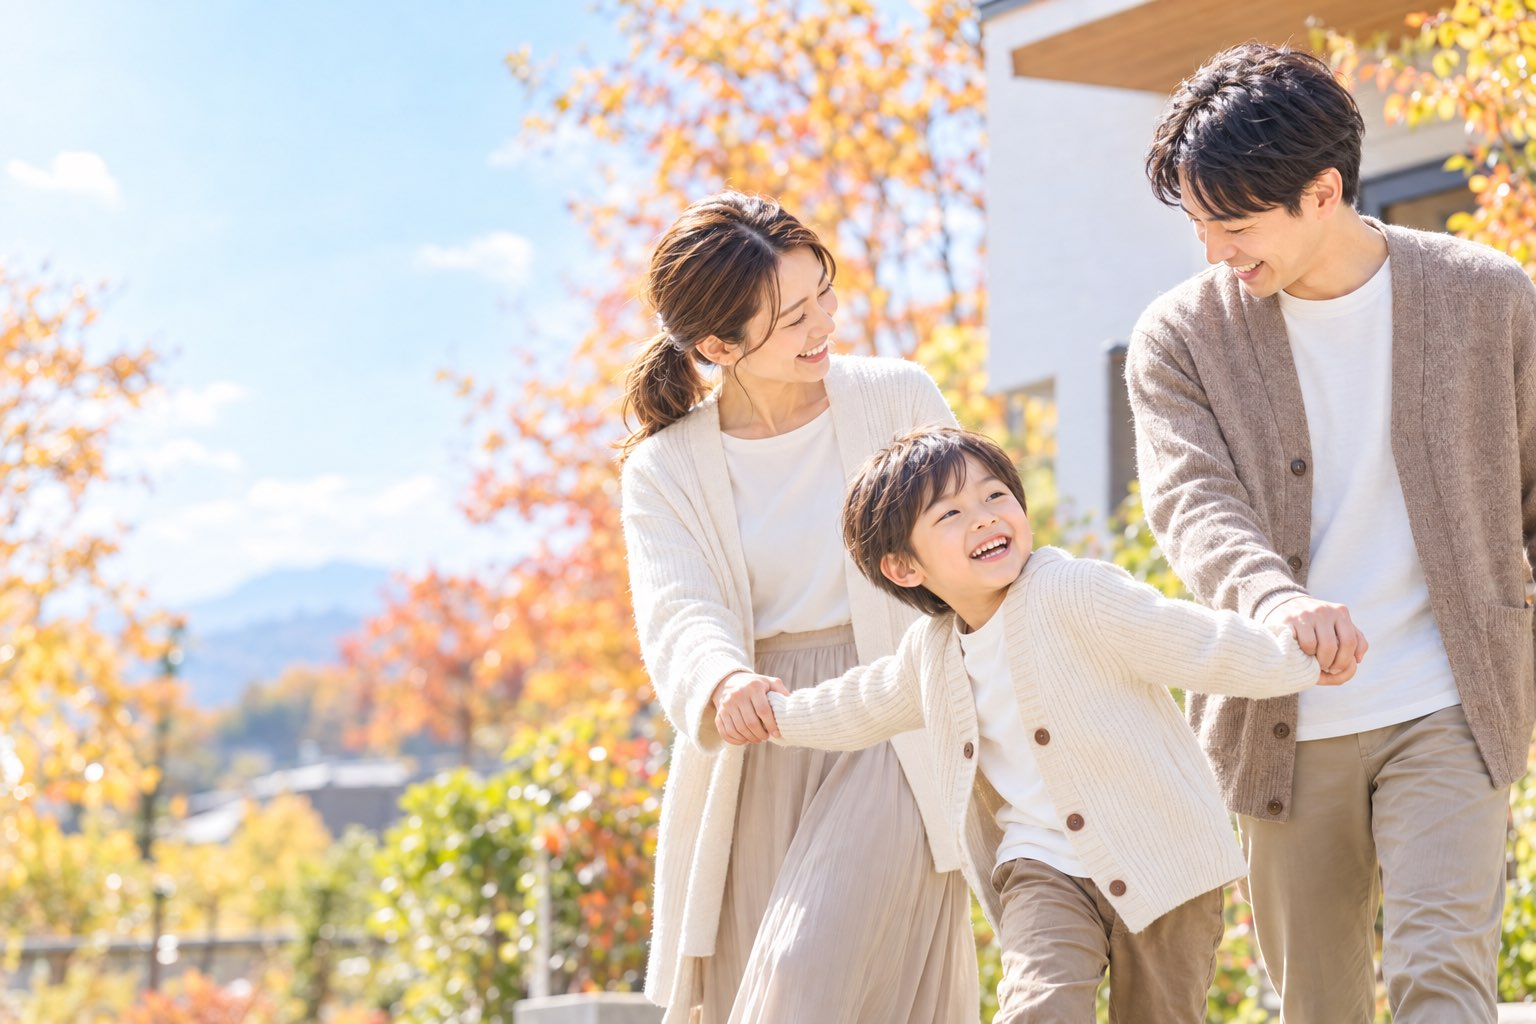
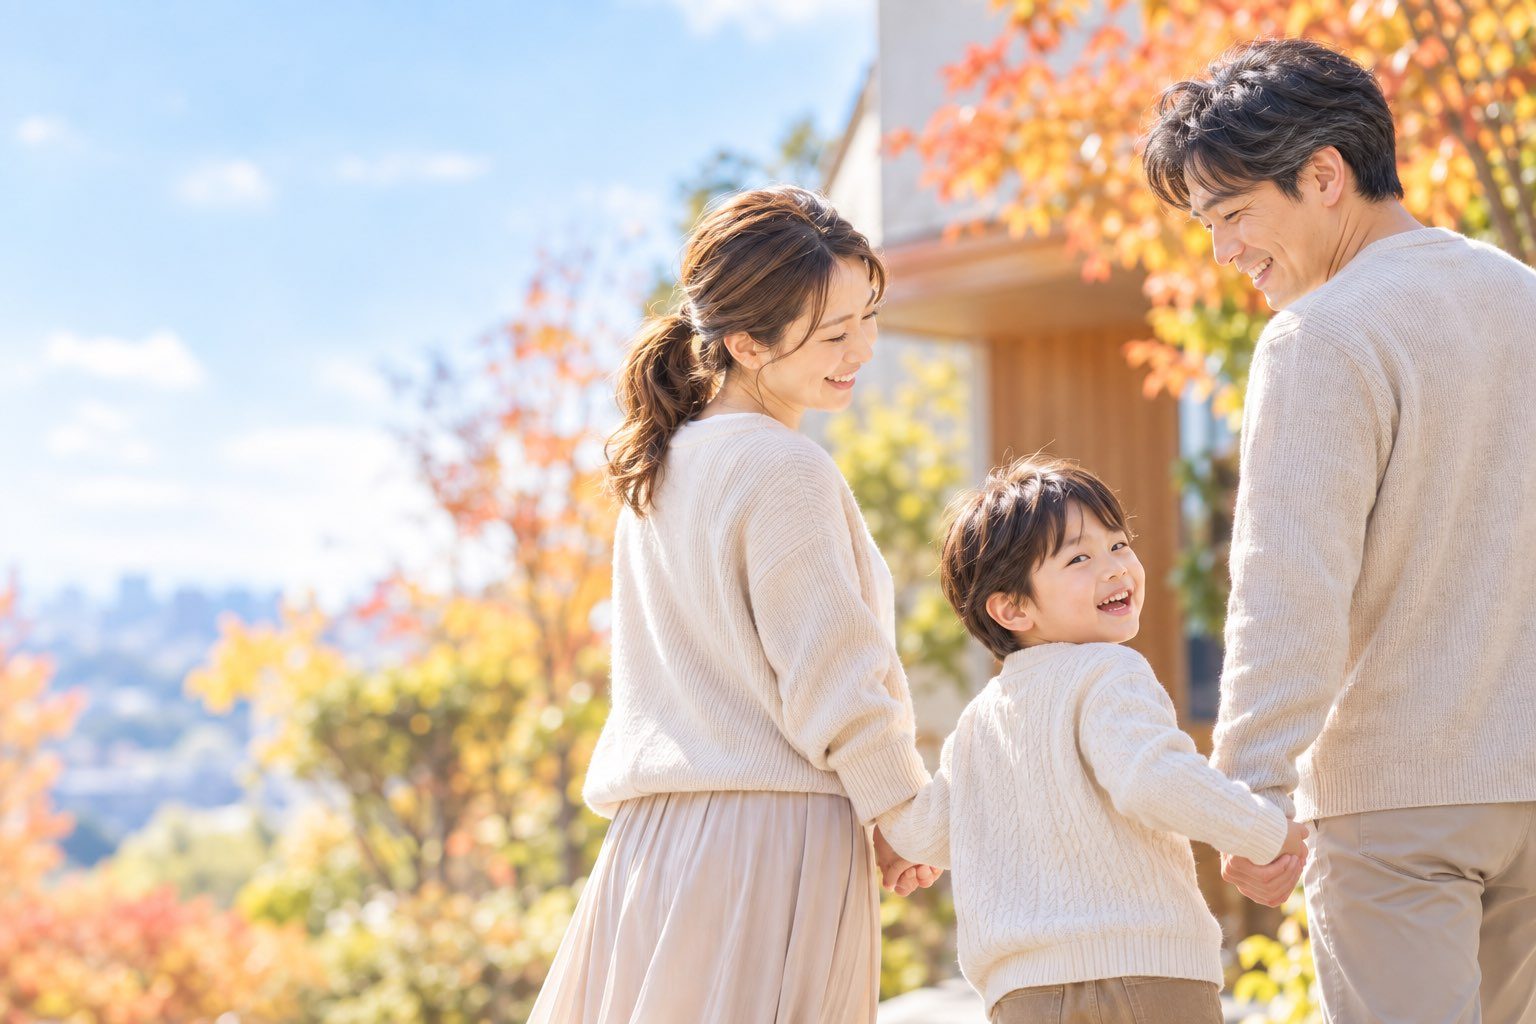
人生の四季の試作：秋の写真を差し替え、夏を肩車の写真にする
夏に今の hero.jpg を使っていたが、トップでは春として見せている写真なので「前の春」に見えてしまっていた。
夏はトップの夏と同じ hero-summer.jpg（公園で肩車）にする。秋は後ろ姿から振り返る構図の新しい版に差し替え、
スマホで母親と父親の顔が両方入るよう見せる位置を合わせた。

Claude-Session: https://claude.ai/code/session_01DkWFmwe3Z7eAywpshKupJG

diff --git a/life/index.html b/life/index.html
@@ -15,7 +15,7 @@
 <link href="https://fonts.googleapis.com/css2?family=Montserrat:wght@500;600&family=Noto+Sans+JP:wght@400;500;700&family=Noto+Serif+JP:wght@500;600&display=swap" rel="stylesheet">
 <link rel="icon" href="../images/favicon.png" type="image/png">
 <link rel="apple-touch-icon" href="../images/apple-touch-icon.png">
-<link rel="stylesheet" href="../assets/style.css?v=6487cc12">
+<link rel="stylesheet" href="../assets/style.css?v=bb231c3f">
 <script>
   // 表示前に「フェード待ち」の状態にする（本文の最後で付けると、文字が一度見えてから消えてフェードする）。
   // main.js が読み込めなかったときに文字が隠れたままにならないよう、3秒で解除する。
@@ -94,8 +94,8 @@
   <section class="fv" id="top">
     <div class="fv-photo">
       <img decoding="async" width="1536" height="1024" class="is-show" src="../images/life-spring.jpg?v=11091abb" alt="" fetchpriority="high" onerror="this.remove()">
-      <img loading="lazy" decoding="async" width="1536" height="1024" data-src="../images/hero.jpg?v=49df1ac6" alt="">
-      <img loading="lazy" decoding="async" width="1536" height="1024" data-src="../images/life-autumn.jpg?v=8c688986" alt="">
+      <img loading="lazy" decoding="async" width="1536" height="1024" data-src="../images/hero-summer.jpg?v=618163a0" alt="">
+      <img loading="lazy" decoding="async" width="1536" height="1024" data-src="../images/life-autumn.jpg?v=6a05a14d" alt="">
       <img loading="lazy" decoding="async" width="1536" height="1024" data-src="../images/life-winter.jpg?v=8f15345c" alt="">
     </div>
     <div class="wrap fv-inner">
@@ -340,6 +340,6 @@
   <a class="t" href="tel:0528462135"><svg><use href="#i-tel"/></svg>電話する</a>
 </div>
 
-<script src="../assets/main.js?v=6487cc12"></script>
+<script src="../assets/main.js?v=bb231c3f"></script>
 </body>
 </html>

diff --git a/motion/index.html b/motion/index.html
@@ -15,7 +15,7 @@
 <link href="https://fonts.googleapis.com/css2?family=Montserrat:wght@500;600&family=Noto+Sans+JP:wght@400;500;700&family=Noto+Serif+JP:wght@500;600&display=swap" rel="stylesheet">
 <link rel="icon" href="../images/favicon.png" type="image/png">
 <link rel="apple-touch-icon" href="../images/apple-touch-icon.png">
-<link rel="stylesheet" href="../assets/style.css?v=6487cc12">
+<link rel="stylesheet" href="../assets/style.css?v=bb231c3f">
 <script>
   // 表示前に「フェード待ち」の状態にする（本文の最後で付けると、文字が一度見えてから消えてフェードする）。
   // main.js が読み込めなかったときに文字が隠れたままにならないよう、3秒で解除する。
@@ -341,7 +341,7 @@
   <a class="t" href="tel:0528462135"><svg><use href="#i-tel"/></svg>電話する</a>
 </div>
 
-<script src="../assets/main.js?v=6487cc12"></script>
+<script src="../assets/main.js?v=bb231c3f"></script>
 <script src="../assets/motion.js?v=38e72e9c"></script>
 </body>
 </html>

diff --git a/about/index.html b/about/index.html
@@ -15,7 +15,7 @@
 <link href="https://fonts.googleapis.com/css2?family=Montserrat:wght@500;600&family=Noto+Sans+JP:wght@400;500;700&family=Noto+Serif+JP:wght@500;600&display=swap" rel="stylesheet">
 <link rel="icon" href="../images/favicon.png" type="image/png">
 <link rel="apple-touch-icon" href="../images/apple-touch-icon.png">
-<link rel="stylesheet" href="../assets/style.css?v=6487cc12">
+<link rel="stylesheet" href="../assets/style.css?v=bb231c3f">
 <script>
   // 表示前に「フェード待ち」の状態にする（本文の最後で付けると、文字が一度見えてから消えてフェードする）。
   // main.js が読み込めなかったときに文字が隠れたままにならないよう、3秒で解除する。
@@ -174,6 +174,6 @@
   <a class="t" href="tel:0528462135"><svg><use href="#i-tel"/></svg>電話する</a>
 </div>
 
-<script src="../assets/main.js?v=6487cc12"></script>
+<script src="../assets/main.js?v=bb231c3f"></script>
 </body>
 </html>

diff --git a/business/index.html b/business/index.html
@@ -15,7 +15,7 @@
 <link href="https://fonts.googleapis.com/css2?family=Montserrat:wght@500;600&family=Noto+Sans+JP:wght@400;500;700&family=Noto+Serif+JP:wght@500;600&display=swap" rel="stylesheet">
 <link rel="icon" href="../images/favicon.png" type="image/png">
 <link rel="apple-touch-icon" href="../images/apple-touch-icon.png">
-<link rel="stylesheet" href="../assets/style.css?v=6487cc12">
+<link rel="stylesheet" href="../assets/style.css?v=bb231c3f">
 <script>
   // 表示前に「フェード待ち」の状態にする（本文の最後で付けると、文字が一度見えてから消えてフェードする）。
   // main.js が読み込めなかったときに文字が隠れたままにならないよう、3秒で解除する。
@@ -192,6 +192,6 @@
   <a class="t" href="tel:0528462135"><svg><use href="#i-tel"/></svg>電話する</a>
 </div>
 
-<script src="../assets/main.js?v=6487cc12"></script>
+<script src="../assets/main.js?v=bb231c3f"></script>
 </body>
 </html>

diff --git a/company/index.html b/company/index.html
@@ -15,7 +15,7 @@
 <link href="https://fonts.googleapis.com/css2?family=Montserrat:wght@500;600&family=Noto+Sans+JP:wght@400;500;700&family=Noto+Serif+JP:wght@500;600&display=swap" rel="stylesheet">
 <link rel="icon" href="../images/favicon.png" type="image/png">
 <link rel="apple-touch-icon" href="../images/apple-touch-icon.png">
-<link rel="stylesheet" href="../assets/style.css?v=6487cc12">
+<link rel="stylesheet" href="../assets/style.css?v=bb231c3f">
 <script>
   // 表示前に「フェード待ち」の状態にする（本文の最後で付けると、文字が一度見えてから消えてフェードする）。
   // main.js が読み込めなかったときに文字が隠れたままにならないよう、3秒で解除する。
@@ -153,6 +153,6 @@
   <a class="t" href="tel:0528462135"><svg><use href="#i-tel"/></svg>電話する</a>
 </div>
 
-<script src="../assets/main.js?v=6487cc12"></script>
+<script src="../assets/main.js?v=bb231c3f"></script>
 </body>
 </html>

diff --git a/contact/index.html b/contact/index.html
@@ -15,7 +15,7 @@
 <link href="https://fonts.googleapis.com/css2?family=Montserrat:wght@500;600&family=Noto+Sans+JP:wght@400;500;700&family=Noto+Serif+JP:wght@500;600&display=swap" rel="stylesheet">
 <link rel="icon" href="../images/favicon.png" type="image/png">
 <link rel="apple-touch-icon" href="../images/apple-touch-icon.png">
-<link rel="stylesheet" href="../assets/style.css?v=6487cc12">
+<link rel="stylesheet" href="../assets/style.css?v=bb231c3f">
 <script>
   // 表示前に「フェード待ち」の状態にする（本文の最後で付けると、文字が一度見えてから消えてフェードする）。
   // main.js が読み込めなかったときに文字が隠れたままにならないよう、3秒で解除する。
@@ -127,6 +127,6 @@
   <a class="t" href="tel:0528462135"><svg><use href="#i-tel"/></svg>電話する</a>
 </div>
 
-<script src="../assets/main.js?v=6487cc12"></script>
+<script src="../assets/main.js?v=bb231c3f"></script>
 </body>
 </html>

diff --git a/informationsecurity/index.html b/informationsecurity/index.html
@@ -15,7 +15,7 @@
 <link href="https://fonts.googleapis.com/css2?family=Montserrat:wght@500;600&family=Noto+Sans+JP:wght@400;500;700&family=Noto+Serif+JP:wght@500;600&display=swap" rel="stylesheet">
 <link rel="icon" href="../images/favicon.png" type="image/png">
 <link rel="apple-touch-icon" href="../images/apple-touch-icon.png">
-<link rel="stylesheet" href="../assets/style.css?v=6487cc12">
+<link rel="stylesheet" href="../assets/style.css?v=bb231c3f">
 <script>
   // 表示前に「フェード待ち」の状態にする（本文の最後で付けると、文字が一度見えてから消えてフェードする）。
   // main.js が読み込めなかったときに文字が隠れたままにならないよう、3秒で解除する。
@@ -133,6 +133,6 @@
   <a class="t" href="tel:0528462135"><svg><use href="#i-tel"/></svg>電話する</a>
 </div>
 
-<script src="../assets/main.js?v=6487cc12"></script>
+<script src="../assets/main.js?v=bb231c3f"></script>
 </body>
 </html>

diff --git a/insurance/index.html b/insurance/index.html
@@ -15,7 +15,7 @@
 <link href="https://fonts.googleapis.com/css2?family=Montserrat:wght@500;600&family=Noto+Sans+JP:wght@400;500;700&family=Noto+Serif+JP:wght@500;600&display=swap" rel="stylesheet">
 <link rel="icon" href="../images/favicon.png" type="image/png">
 <link rel="apple-touch-icon" href="../images/apple-touch-icon.png">
-<link rel="stylesheet" href="../assets/style.css?v=6487cc12">
+<link rel="stylesheet" href="../assets/style.css?v=bb231c3f">
 <script>
   // 表示前に「フェード待ち」の状態にする（本文の最後で付けると、文字が一度見えてから消えてフェードする）。
   // main.js が読み込めなかったときに文字が隠れたままにならないよう、3秒で解除する。
@@ -222,6 +222,6 @@
   <a class="t" href="tel:0528462135"><svg><use href="#i-tel"/></svg>電話する</a>
 </div>
 
-<script src="../assets/main.js?v=6487cc12"></script>
+<script src="../assets/main.js?v=bb231c3f"></script>
 </body>
 </html>

diff --git a/operation/index.html b/operation/index.html
@@ -15,7 +15,7 @@
 <link href="https://fonts.googleapis.com/css2?family=Montserrat:wght@500;600&family=Noto+Sans+JP:wght@400;500;700&family=Noto+Serif+JP:wght@500;600&display=swap" rel="stylesheet">
 <link rel="icon" href="../images/favicon.png" type="image/png">
 <link rel="apple-touch-icon" href="../images/apple-touch-icon.png">
-<link rel="stylesheet" href="../assets/style.css?v=6487cc12">
+<link rel="stylesheet" href="../assets/style.css?v=bb231c3f">
 <script>
   // 表示前に「フェード待ち」の状態にする（本文の最後で付けると、文字が一度見えてから消えてフェードする）。
   // main.js が読み込めなかったときに文字が隠れたままにならないよう、3秒で解除する。
@@ -144,6 +144,6 @@
   <a class="t" href="tel:0528462135"><svg><use href="#i-tel"/></svg>電話する</a>
 </div>
 
-<script src="../assets/main.js?v=6487cc12"></script>
+<script src="../assets/main.js?v=bb231c3f"></script>
 </body>
 </html>

diff --git a/privacyprotection/index.html b/privacyprotection/index.html
@@ -15,7 +15,7 @@
 <link href="https://fonts.googleapis.com/css2?family=Montserrat:wght@500;600&family=Noto+Sans+JP:wght@400;500;700&family=Noto+Serif+JP:wght@500;600&display=swap" rel="stylesheet">
 <link rel="icon" href="../images/favicon.png" type="image/png">
 <link rel="apple-touch-icon" href="../images/apple-touch-icon.png">
-<link rel="stylesheet" href="../assets/style.css?v=6487cc12">
+<link rel="stylesheet" href="../assets/style.css?v=bb231c3f">
 <script>
   // 表示前に「フェード待ち」の状態にする（本文の最後で付けると、文字が一度見えてから消えてフェードする）。
   // main.js が読み込めなかったときに文字が隠れたままにならないよう、3秒で解除する。
@@ -204,6 +204,6 @@
   <a class="t" href="tel:0528462135"><svg><use href="#i-tel"/></svg>電話する</a>
 </div>
 
-<script src="../assets/main.js?v=6487cc12"></script>
+<script src="../assets/main.js?v=bb231c3f"></script>
 </body>
 </html>

diff --git a/recruitment/index.html b/recruitment/index.html
@@ -15,7 +15,7 @@
 <link href="https://fonts.googleapis.com/css2?family=Montserrat:wght@500;600&family=Noto+Sans+JP:wght@400;500;700&family=Noto+Serif+JP:wght@500;600&display=swap" rel="stylesheet">
 <link rel="icon" href="../images/favicon.png" type="image/png">
 <link rel="apple-touch-icon" href="../images/apple-touch-icon.png">
-<link rel="stylesheet" href="../assets/style.css?v=6487cc12">
+<link rel="stylesheet" href="../assets/style.css?v=bb231c3f">
 <script>
   // 表示前に「フェード待ち」の状態にする（本文の最後で付けると、文字が一度見えてから消えてフェードする）。
   // main.js が読み込めなかったときに文字が隠れたままにならないよう、3秒で解除する。
@@ -161,6 +161,6 @@
   <a class="t" href="tel:0528462135"><svg><use href="#i-tel"/></svg>電話する</a>
 </div>
 
-<script src="../assets/main.js?v=6487cc12"></script>
+<script src="../assets/main.js?v=bb231c3f"></script>
 </body>
 </html>

diff --git a/service/index.html b/service/index.html
@@ -15,7 +15,7 @@
 <link href="https://fonts.googleapis.com/css2?family=Montserrat:wght@500;600&family=Noto+Sans+JP:wght@400;500;700&family=Noto+Serif+JP:wght@500;600&display=swap" rel="stylesheet">
 <link rel="icon" href="../images/favicon.png" type="image/png">
 <link rel="apple-touch-icon" href="../images/apple-touch-icon.png">
-<link rel="stylesheet" href="../assets/style.css?v=6487cc12">
+<link rel="stylesheet" href="../assets/style.css?v=bb231c3f">
 <script>
   // 表示前に「フェード待ち」の状態にする（本文の最後で付けると、文字が一度見えてから消えてフェードする）。
   // main.js が読み込めなかったときに文字が隠れたままにならないよう、3秒で解除する。
@@ -174,6 +174,6 @@
   <a class="t" href="tel:0528462135"><svg><use href="#i-tel"/></svg>電話する</a>
 </div>
 
-<script src="../assets/main.js?v=6487cc12"></script>
+<script src="../assets/main.js?v=bb231c3f"></script>
 </body>
 </html>
